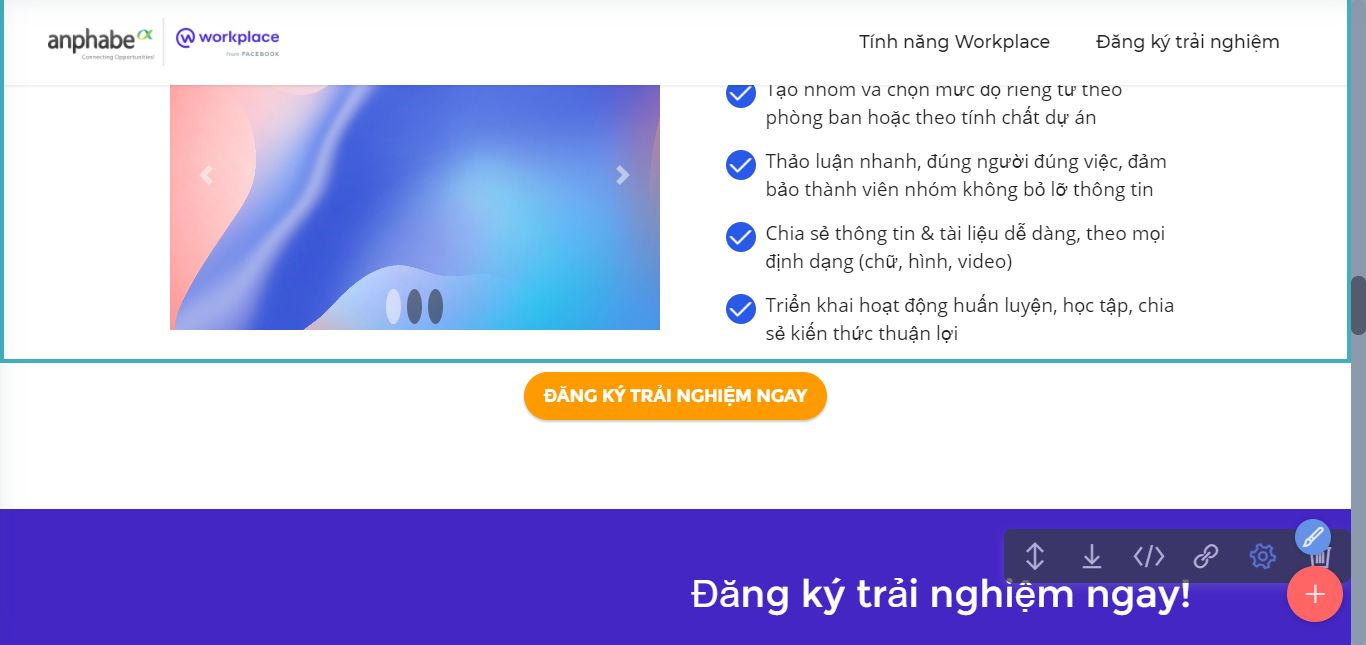
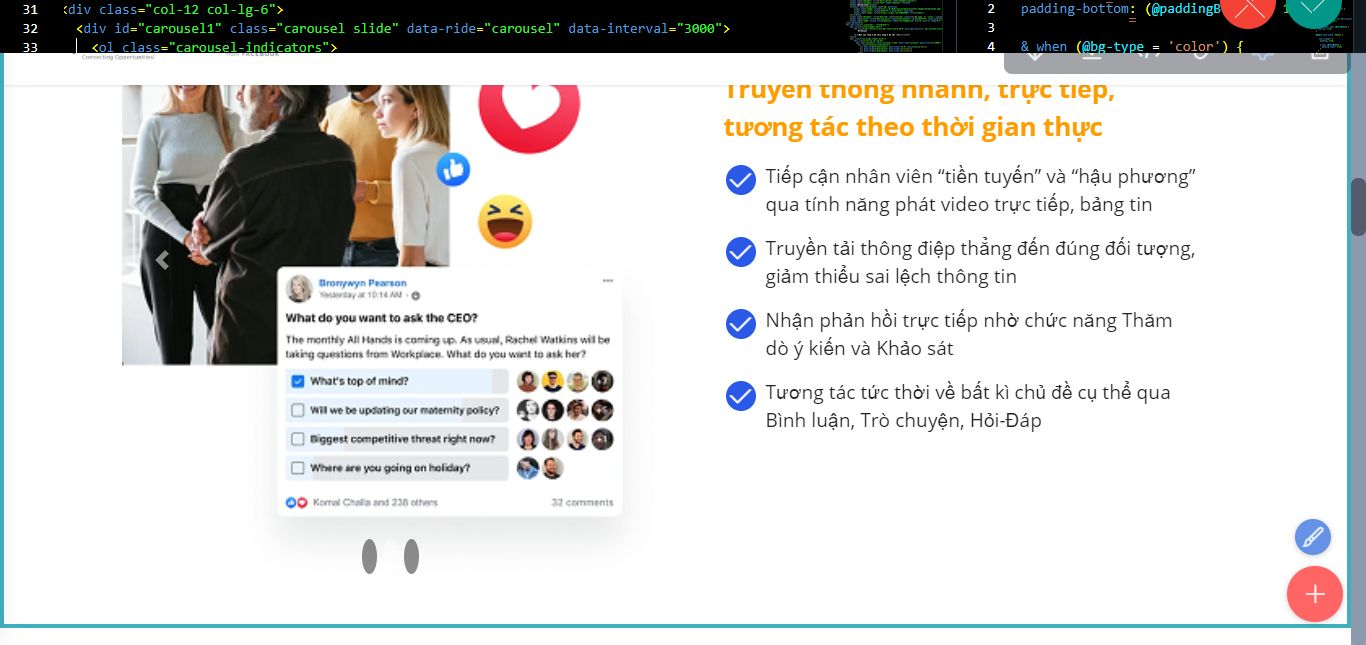
update

diff --git a/truyenthong-v2/index.html b/truyenthong-v2/index.html
@@ -213,13 +213,13 @@ if (
                 </ol>
                 <div class="carousel-inner">
                   <div class="carousel-item active">
-                    <img class="d-block w-100" src="assets/images/background3.jpg" alt="First slide">
+                    <img class="d-block w-100" src="assets/images/workplace-ui-news-feed-mark-as-important-no-device-pr.png" alt="First slide">
                   </div>
                   <div class="carousel-item">
-                    <img class="d-block w-100" src="assets/images/background5.jpg" alt="Second slide">
+                    <img class="d-block w-100" src="assets/images/poll-1.png" alt="Second slide">
                   </div>
                   <div class="carousel-item">
-                    <img class="d-block w-100" src="assets/images/background8.jpg" alt="Third slide">
+                    <img class="d-block w-100" src="assets/images/workplace-ui-insights-people-no-device-pr.png" alt="Third slide">
                   </div>
                 </div>
                 <a class="carousel-control-prev" href="#carousel1" role="button" data-slide="prev">
@@ -278,13 +278,13 @@ if (
                       </ol>
                       <div class="carousel-inner">
                         <div class="carousel-item active">
-                          <img class="d-block w-100" src="assets/images/background3.jpg" alt="First slide">
+                          <img class="d-block w-100" src="assets/images/workplace-ui-insights-people-no-device-pr.png" alt="First slide">
                         </div>
                         <div class="carousel-item">
-                          <img class="d-block w-100" src="assets/images/background5.jpg" alt="Second slide">
+                          <img class="d-block w-100" src="assets/images/workplace-ui-badges-admin-panel-pr.png" alt="Second slide">
                         </div>
                         <div class="carousel-item">
-                          <img class="d-block w-100" src="assets/images/background8.jpg" alt="Third slide">
+                          <img class="d-block w-100" src="assets/images/workplace-ui-live-video-general-www-pr.png" alt="Third slide">
                         </div>
                       </div>
                       <a class="carousel-control-prev" href="#carousel2" role="button" data-slide="prev">
@@ -318,13 +318,13 @@ if (
                       </ol>
                       <div class="carousel-inner">
                         <div class="carousel-item active">
-                          <img class="d-block w-100" src="assets/images/background3.jpg" alt="First slide">
+                          <img class="d-block w-100" src="assets/images/workplace-ui-knowledge-library-home-www-no-device-pr.png" alt="First slide">
                         </div>
                         <div class="carousel-item">
-                          <img class="d-block w-100" src="assets/images/background5.jpg" alt="Second slide">
+                          <img class="d-block w-100" src="assets/images/workplace-ui-groups-discovery-no-device-pr-1.png" alt="Second slide">
                         </div>
                         <div class="carousel-item">
-                          <img class="d-block w-100" src="assets/images/background8.jpg" alt="Third slide">
+                          <img class="d-block w-100" src="assets/images/workplace-ui-groups-file-sharing-no-device-pr.png" alt="Third slide">
                         </div>
                       </div>
                       <a class="carousel-control-prev" href="#carousel3" role="button" data-slide="prev">
